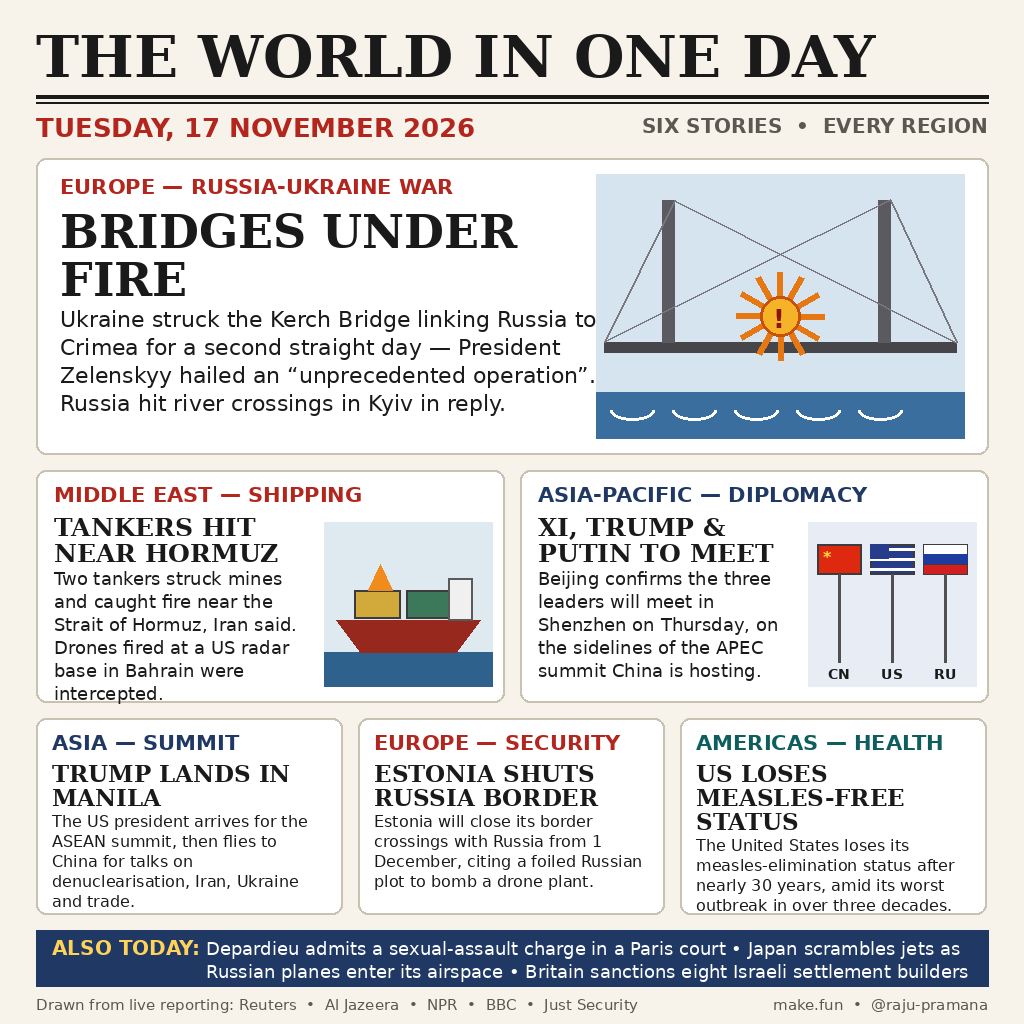
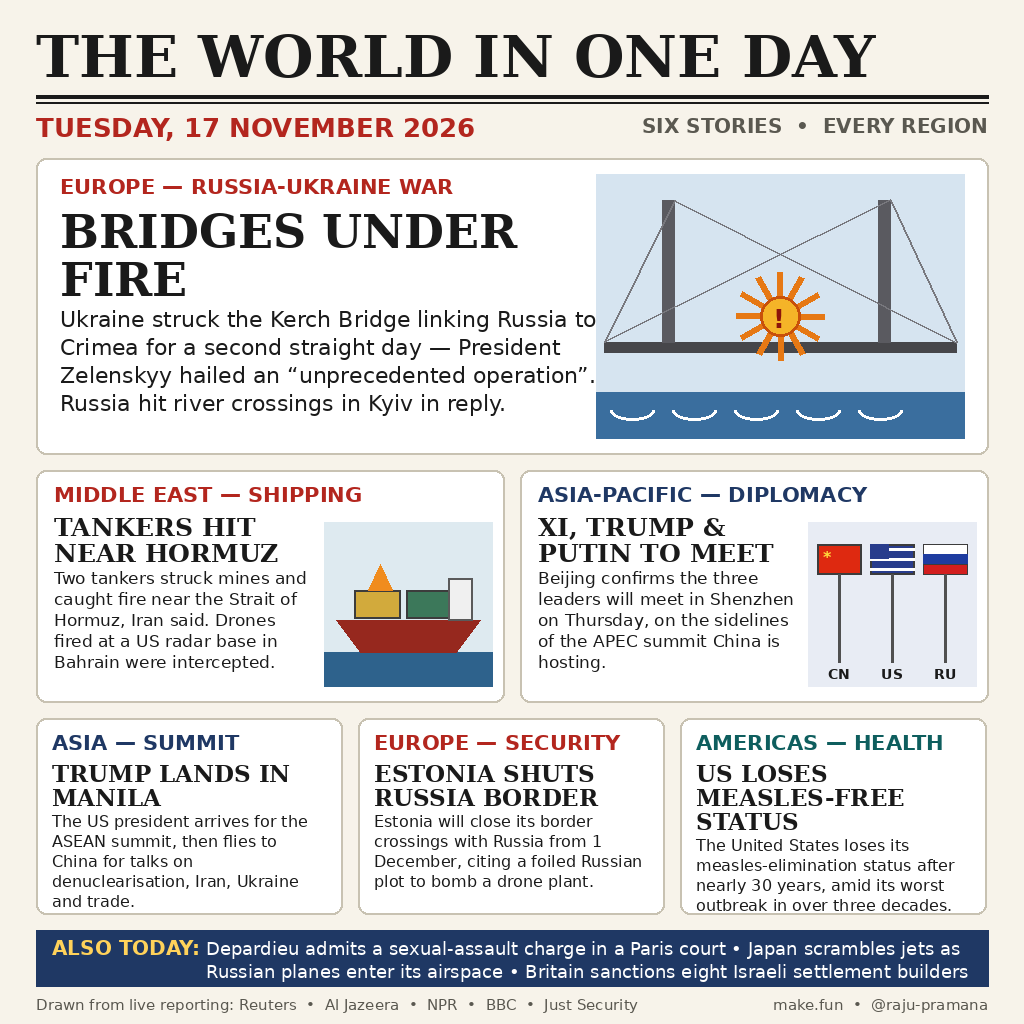
Fix Hormuz body overflow at panel edge (17pt), add .gitignore

Changed region(s): [[0.0312, 0.5625, 0.3125, 0.6875], [0.5312, 0.5625, 0.7812, 0.6562]]

diff --git a/draw_news.py b/draw_news.py
@@ -250,7 +250,7 @@ def main():
                "Two tankers struck mines and caught fire near the Strait "
                "of Hormuz, Iran said. Drones fired at a US radar base in "
                "Bahrain were intercepted.",
-               font(F_SANS, 18), w2 - 206)
+               font(F_SANS, 17), w2 - 206)
     draw_tanker(d, M + w2 - 180, y2 + 52, 168, h2 - 68)
     # Summit
     x3 = M + w2 + 16
@@ -264,7 +264,7 @@ def main():
                "Beijing confirms the three leaders will meet in Shenzhen "
                "on Thursday, on the sidelines of the APEC summit China "
                "is hosting.",
-               font(F_SANS, 18), w2 - 206)
+               font(F_SANS, 17), w2 - 206)
     draw_flags(d, x3 + w2 - 180, y2 + 52, 168, h2 - 68)
 
     # ---- Row 3: three stories ----
